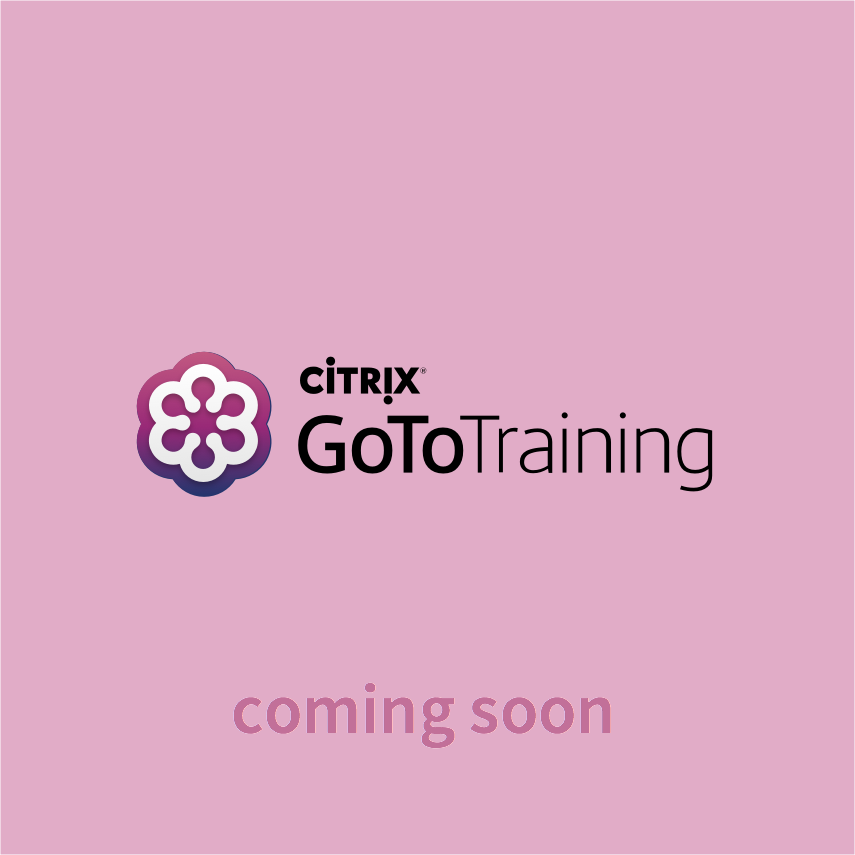
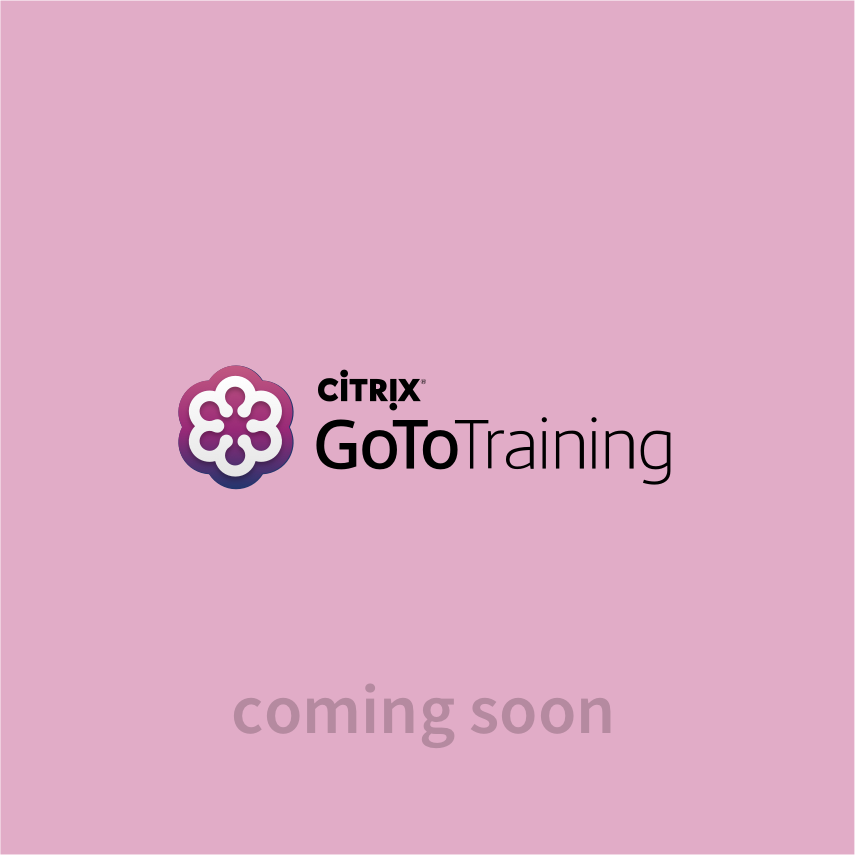
thumbnails redesign

Changed region(s): [[0.152, 0.3953, 0.8515, 0.5778], [0.2737, 0.7906, 0.7298, 0.8819]]

diff --git a/index.html b/index.html
@@ -87,7 +87,7 @@
 			<div class="col-md-4 nopadding-2015">
 	        	<a href="onebit.html">
 					<div class="project-hover-2015"><div class="project-name"><h3>One Bit Input System</h3><p>Research & Development</p><h5>May 2012 - Jun 2013</h5></div></div>
-					<div class="project-image"><img class="featurette-image img-responsive-project-2015" src="img/onebit/thumb.jpg" ></div>
+					<div class="project-image"><img class="featurette-image img-responsive-project-2015" src="img/onebit/thumb.png" ></div>
 				</a>        	
 	        </div>			        	        
 	    </div>

diff --git a/g2t.html b/g2t.html
@@ -10,7 +10,7 @@
     <link href="css/bootstrap.min.css" rel="stylesheet">
     <link href='http://fonts.googleapis.com/css?family=Source+Sans+Pro:300' rel='stylesheet' type='text/css'>
     <link href="css/style.css" rel="stylesheet">
-    <link rel="stylesheet" type="text/css" href="css/styleselfmade.css">
+    <link rel="stylesheet" type="text/css" href="css/g2tbg.css">
   </head>
   <body>
     <div class="navbar navbar-default navbar-fixed-top" role="navigation">
